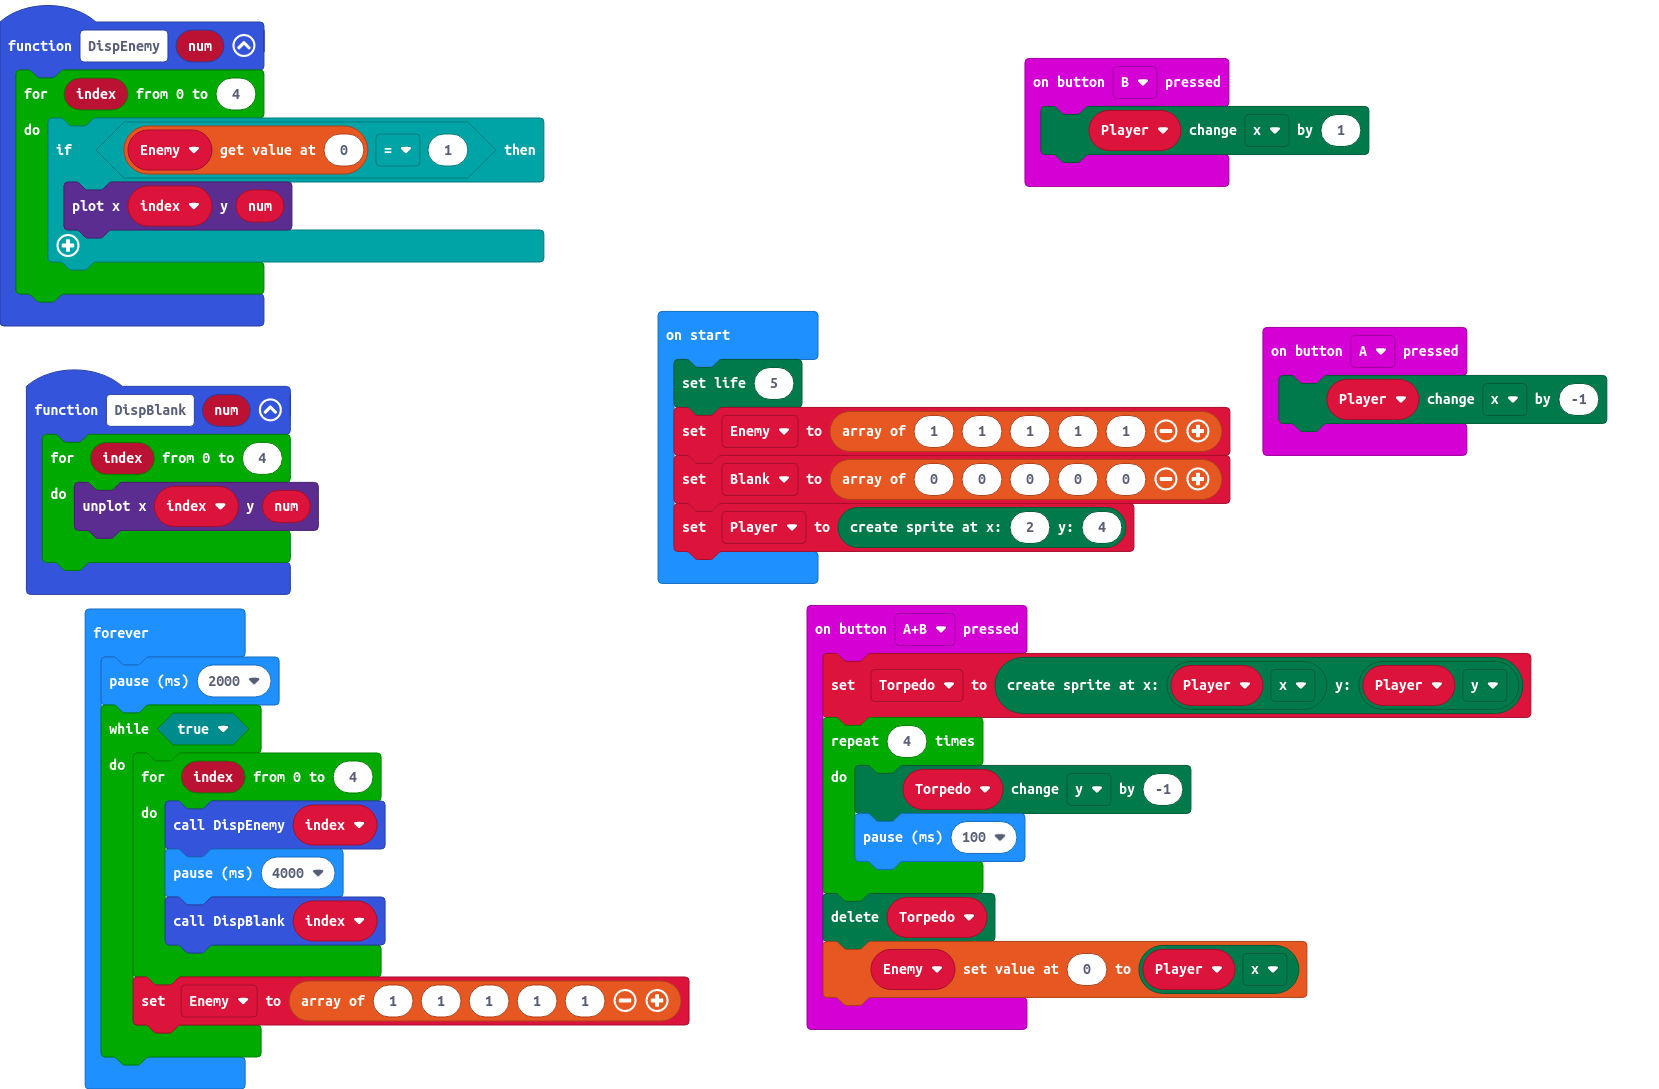
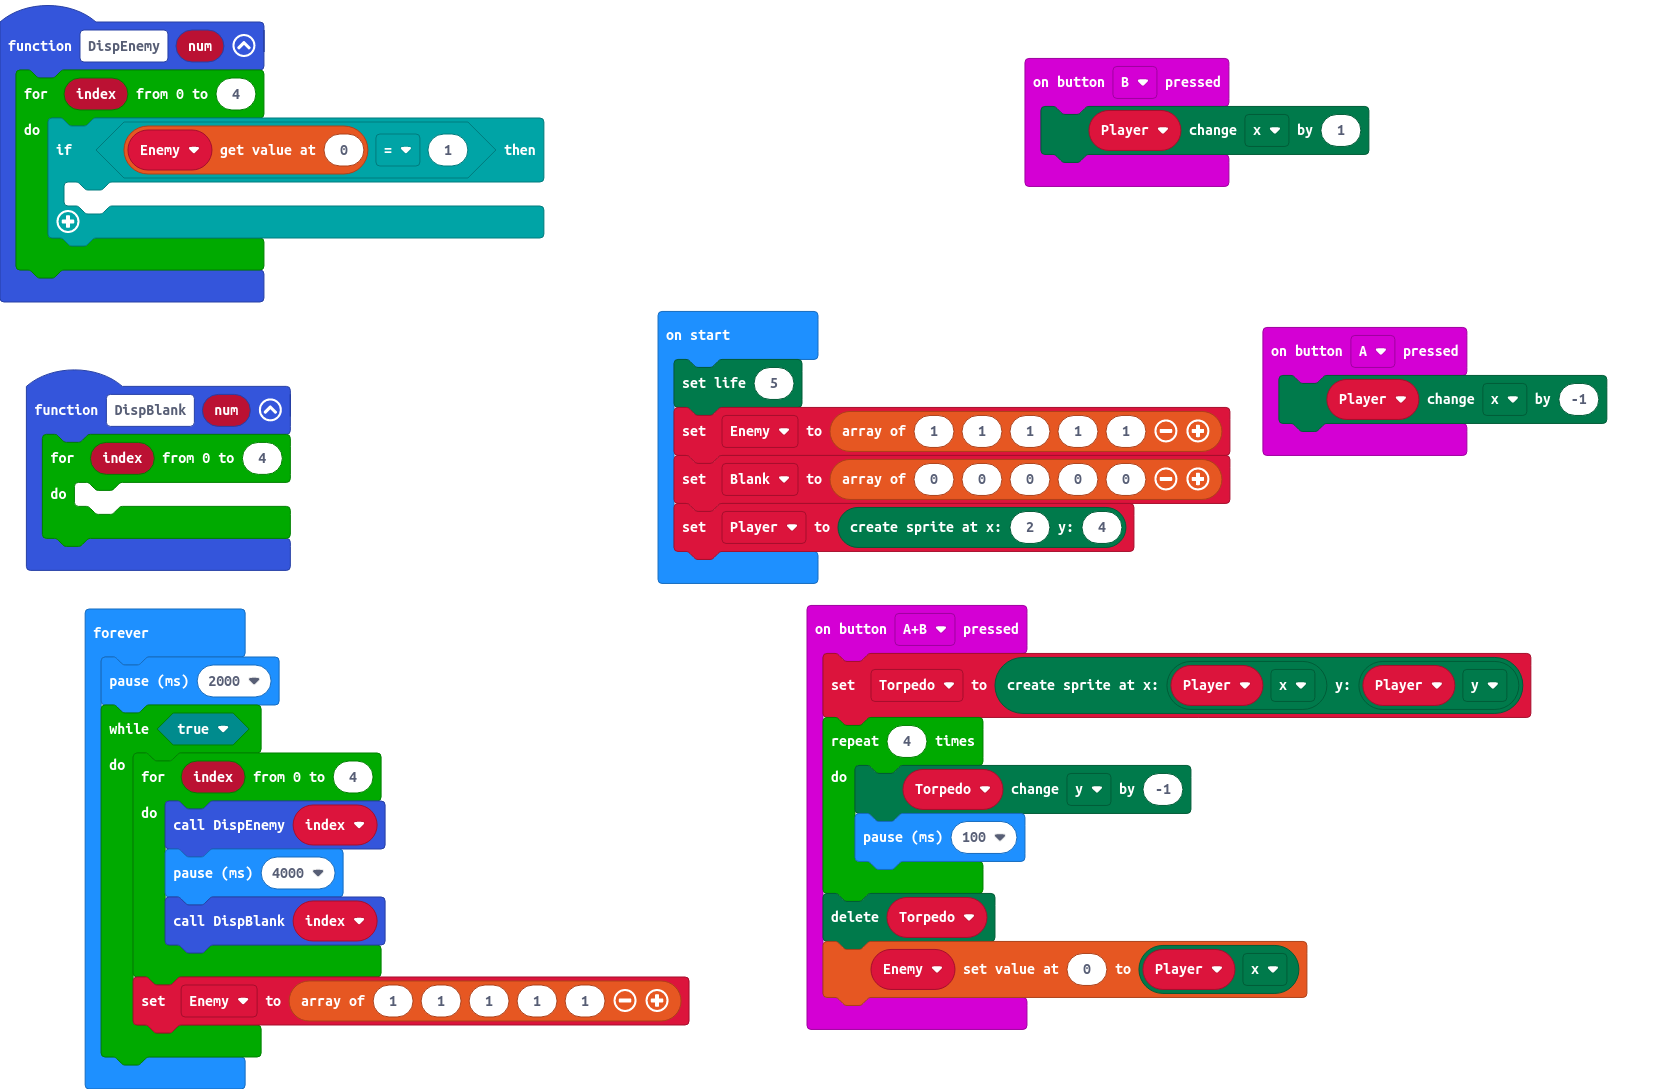
Update main.blocks, main.ts

Changed region(s): [[0.0, 0.1561, 0.3382, 0.3122], [0.0, 0.4371, 0.2152, 0.562]]

diff --git a/main.ts b/main.ts
@@ -3,7 +3,7 @@ input.onButtonPressed(Button.A, function () {
 })
 function DispBlank (num: number) {
     for (let index = 0; index <= 4; index++) {
-        led.unplot(index, num)
+    	
     }
 }
 input.onButtonPressed(Button.AB, function () {
@@ -21,7 +21,7 @@ input.onButtonPressed(Button.B, function () {
 function DispEnemy (num: number) {
     for (let index = 0; index <= 4; index++) {
         if (Enemy[0] == 1) {
-            led.plot(index, num)
+        	
         }
     }
 }
